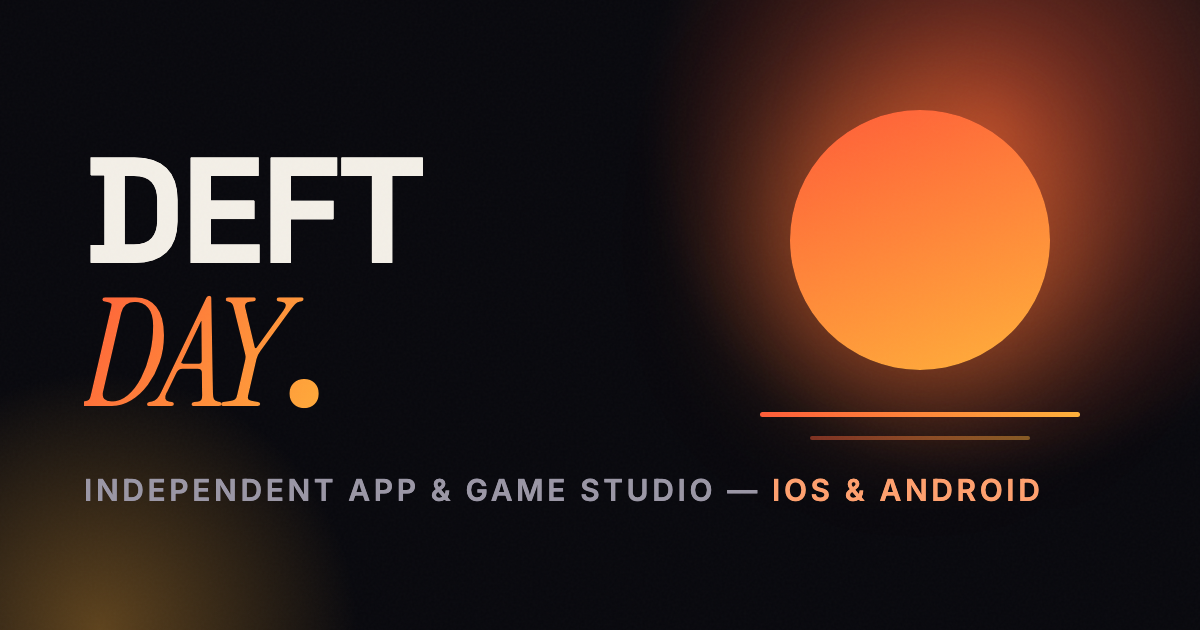
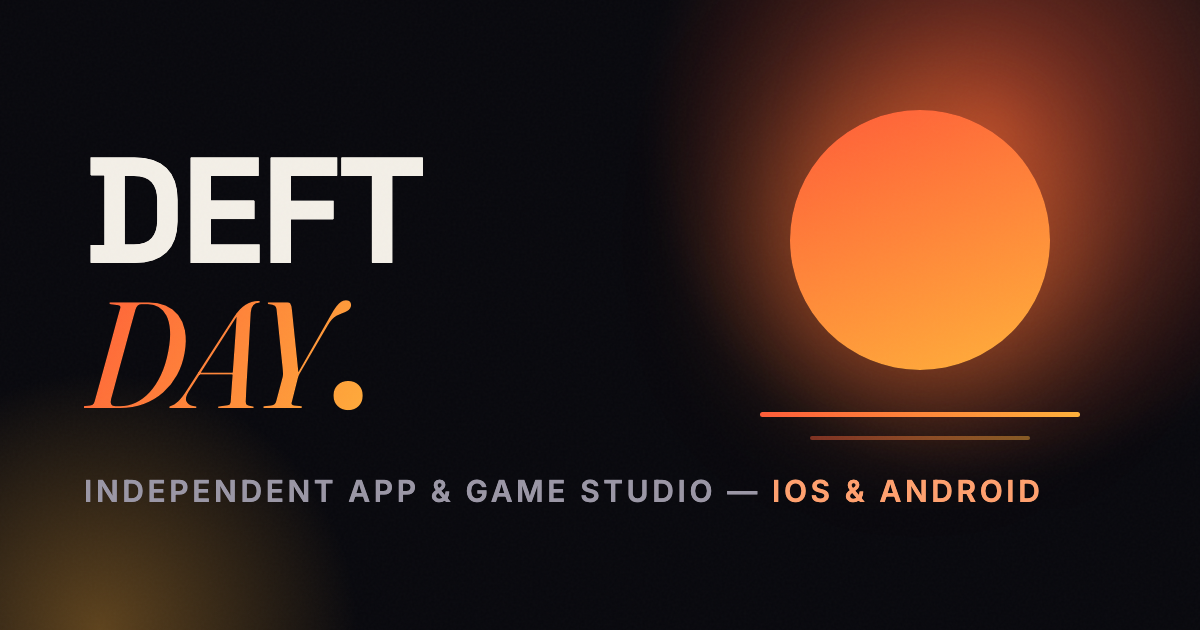
style: switch serif accent font from Instrument Serif to Fraunces
All gradient accent words (Every day., one standard., your day., …) now use
Fraunces italic; og.png re-rendered to match.

diff --git a/src/styles/global.css b/src/styles/global.css
@@ -1,6 +1,6 @@
 /* ============================================================
    DeftDay — daybreak on dark
-   Space Grotesk display · Instrument Serif italic accents
+   Space Grotesk display · Fraunces italic accents
    coral→amber sunrise gradient on near-black
    ============================================================ */
 :root{
@@ -16,7 +16,7 @@
   --grad:linear-gradient(120deg,var(--sun1),var(--sun2));
   --font-d:'Space Grotesk',sans-serif;
   --font-b:'Inter',sans-serif;
-  --font-s:'Instrument Serif',serif;
+  --font-s:'Fraunces',serif;
 }
 *{margin:0;padding:0;box-sizing:border-box}
 html{scroll-behavior:smooth}

diff --git a/README.md b/README.md
@@ -8,7 +8,7 @@ EatStep, Munchview, Pickorn and the live browser game
 Single-page Astro site, static output, no UI framework — plain CSS
 (`src/styles/global.css`) and vanilla TypeScript in component `<script>` tags.
 Art direction: *daybreak on dark* — coral→amber sunrise gradient on near-black,
-Space Grotesk display type with Instrument Serif italic accents.
+Space Grotesk display type with Fraunces italic accents.
 
 ## Setup
 
